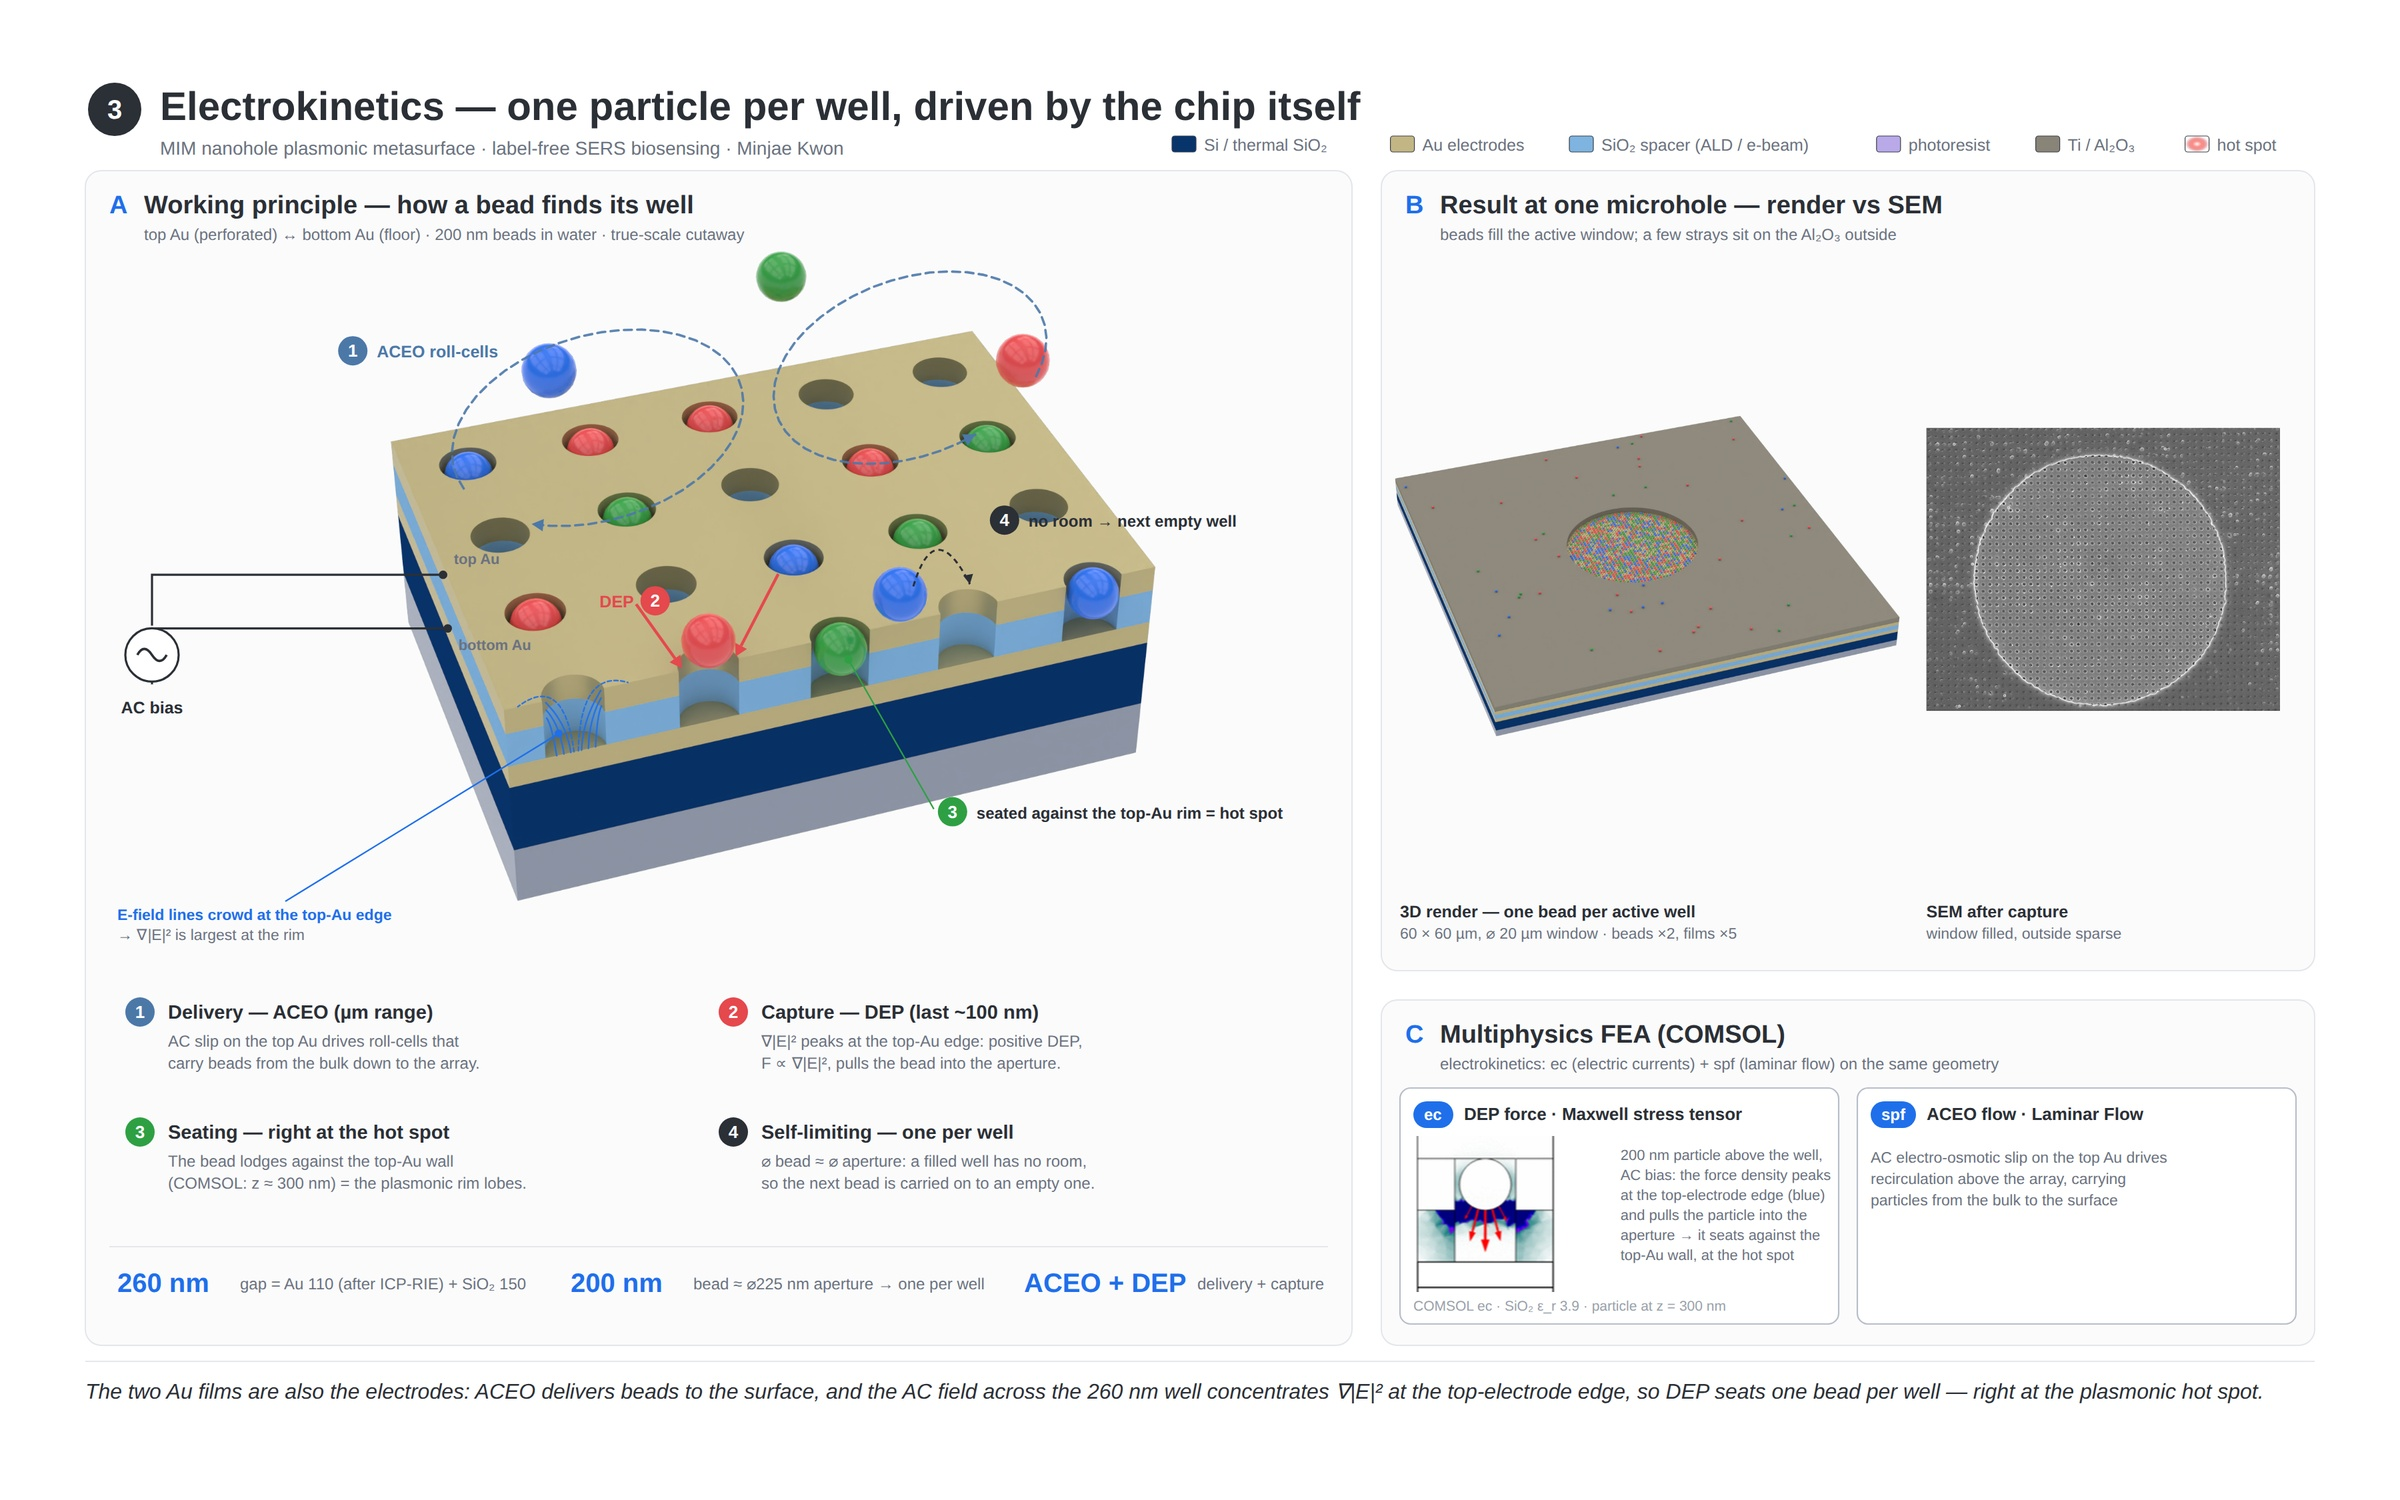
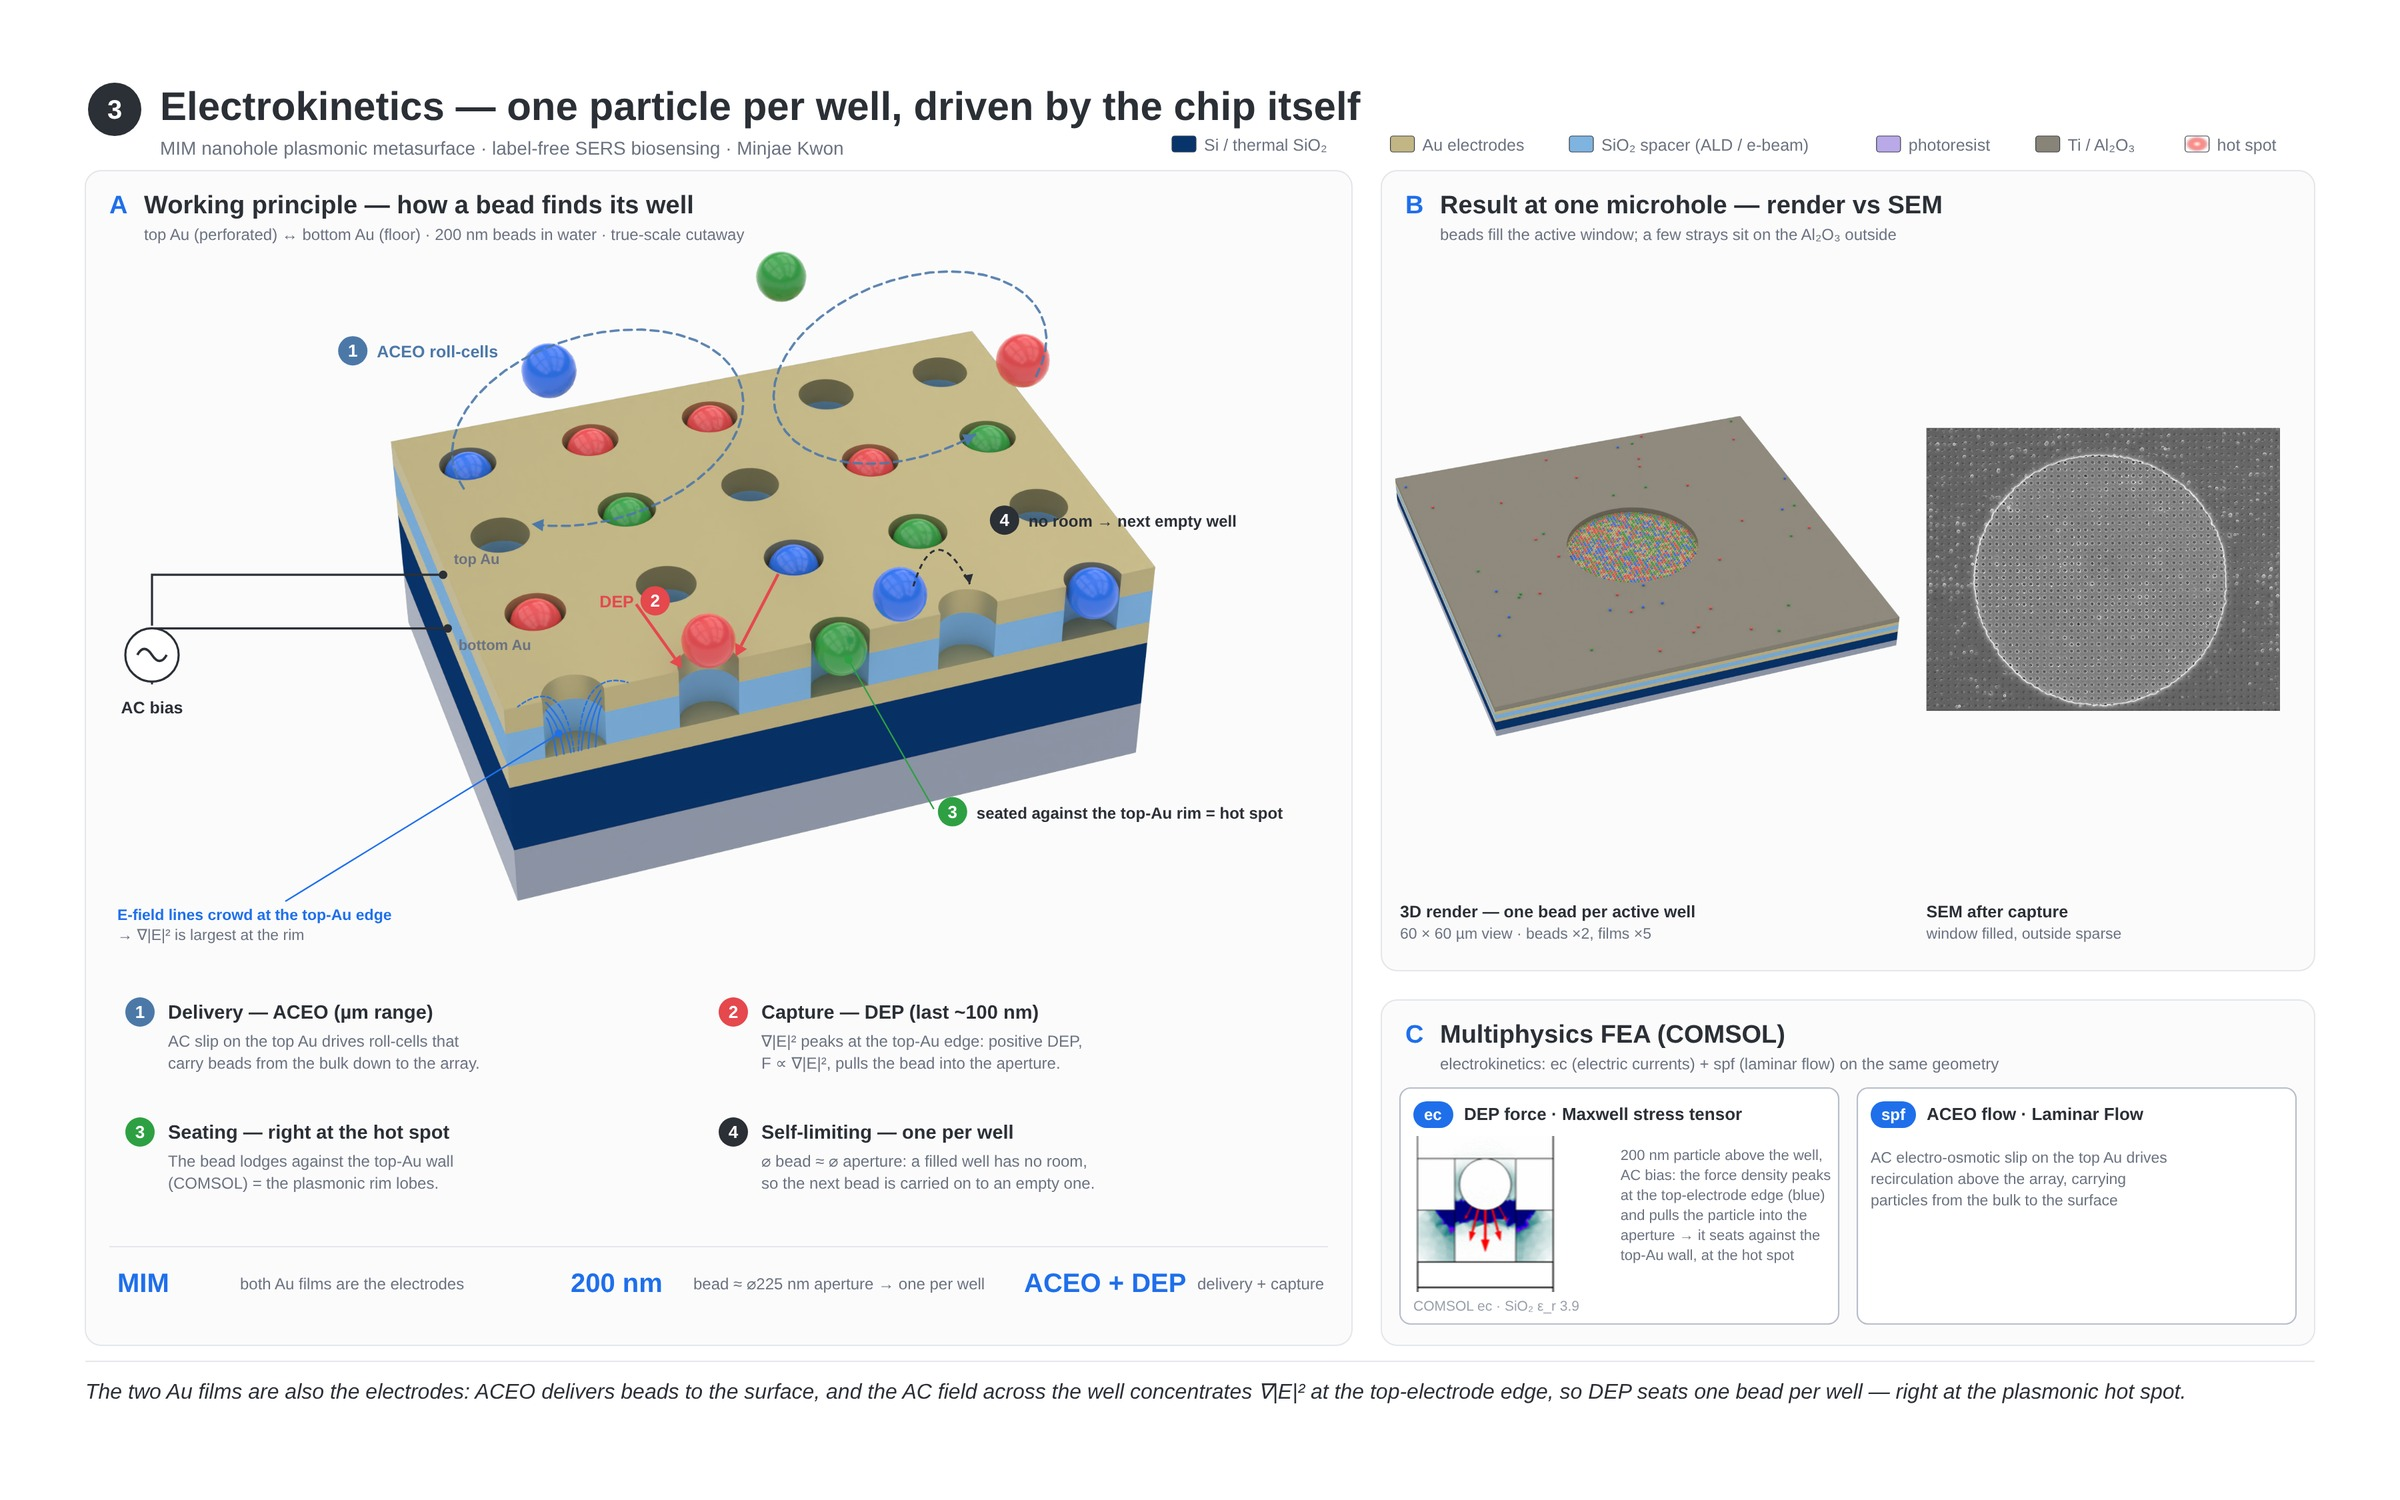
Figures 1-3 and captions: drop layer thicknesses and process conditions
While the first-author paper is unpublished, the public site shows no
electrode, spacer or passivation thicknesses and no recipe numbers
(exposure time, field counts, window size, gap). The design lattice
(225 nm / 500 nm), laser wavelength and particle size stay.

Claude-Session: https://claude.ai/code/session_01CwkbSz9kciPx6Bdd89Dz4P

diff --git a/index.html b/index.html
@@ -553,7 +553,7 @@ var SKILLS_GROUPS = [
               { src: 'Ryu-SU8-fluidic-channel2.jpeg', cap: 'Cross-sectional SEM of the SU-8 (TF 6000) fluidic channel edge profile at a second location.' }
           ]},
           { name: 'Laser Interference Lithography (LIL)', desc: 'Large-area, periodic nanopatterning via laser interference for metasurface fabrication. Equipment manager — responsible for maintenance and part replacement, user training and approval, process setup and records, and vendor coordination. Used to pattern the periodic nanopost template for my MIM plasmonic nanohole sensor.', imgs: [
-              { src: 'fig_lil_process.jpg', cap: "How LIL writes the nanopost array. (a) Lloyd's-mirror interferometer: the expanded 325 nm HeCd beam is folded by the mirror so two beams meet on the resist at ±θ (θ = 18.97° for a 500 nm period). (b) Exposure 1 writes bright sheets every 500 nm through the 0.5 µm positive resist. (c) Exposure 2, rotated 90° at the same dose, leaves ~225 nm posts only where both exposures were dark. (d) A 3 s aligner flood through a 50 µm chrome checker mask keeps the posts in 16 × 16 fields (100 µm pitch). Panels b–c to scale; a is schematic and d has exaggerated height." },
+              { src: 'fig_lil_process.jpg', cap: "How LIL writes the nanopost array. (a) Lloyd's-mirror interferometer: the expanded 325 nm HeCd beam is folded by the mirror so two beams meet on the resist at ±θ (θ = 18.97° for a 500 nm period). (b) Exposure 1 writes bright sheets every 500 nm through the positive resist. (c) Exposure 2, rotated 90° at the same dose, leaves ~225 nm posts only where both exposures were dark. (d) An aligner flood through a chrome checker mask keeps the posts only inside the fields. Panels b–c to scale; a is schematic and d has exaggerated height." },
               { src: 'Ryu-LIL.jpeg', cap: "Home-built Lloyd's-mirror LIL setup: 325 nm He-Cd laser, beam expander and pinhole spatial filter, and mirror for interference exposure." },
               { src: 'LIL_example_001.jpeg', cap: 'Periodic post-shaped large-surface nanopattern produced by LIL, Period of 840nm.' },
               { src: 'LIL_example_002.jpeg', cap: 'Periodic post-shaped large-surface nanopattern produced by LIL, Period of 500nm.' },
@@ -786,8 +786,8 @@ var RESEARCH = [
       '<strong>Collaborative Projects</strong><ul class="sub-bullets"><li><strong>PRET (Plasmon Resonance Energy Transfer) metasurface:</strong> Collaborating with Prof. Junsuk Rho (POSTECH), whose group fabricates the base metasurface; performing the deposition (e.g., passivation) of the electrokinetic capture structures designed in our lab to complement it, enabling active electrokinetic concentration of target analytes in aqueous solution.</li><li><strong>Hydrogen-sensing MEMS platform:</strong> Providing deposition and lithography support for fabricating a terahertz-resonant MEMS chip structure whose resonance shifts depending on the presence and concentration of hydrogen gas, enabling label-free hydrogen sensing.</li><li><strong>Electrochemical-sensing nanostructure:</strong> Leading full-chip fabrication for a variant MIM nanohole platform (electrokinetic capture structure removed), tuning period, nanohole size, layer thickness, and constituent materials for electrochemical sensing.</li><li><strong>KU-KIST Joint Project:</strong> Collaborating Researcher at the Nanophotonics Research Center, KIST (Korea Institute of Science and Technology), developing label-free plasmonic sensing platforms for GPCR (G protein-coupled receptor) conformational dynamics in a drug-discovery initiative.</li></ul>'
     ],
     imgs: [
-      { src: 'mim_nanohole_fab_setup_poster.jpg', video: { mp4: 'mim_nanohole_fab_setup_1440.mp4' }, cap: 'Video — how the chip is made and used (2 min). Fabrication, layer by layer in one fixed view: Cr/Au bottom electrodes, SiO₂ spacer, laser interference lithography (⌀225 nm posts, 500 nm pitch) and a second exposure, Ti/Au top electrodes with lift-off, a Ti/Al₂O₃ cap with ⌀20 µm windows, ICP-RIE into Au-floored nanowells, and a quartz cover on 3 µm silica beads. Then the measurement: capillary action fills the 3 µm gap with the sample, AC on one electrode pair pulls one 200 nm particle into each nanohole (live fluorescence, 50× objective), the particles stay when the field is off, and a Raman laser reads one nanohole at a time.' },
-      { src: 'mim_nanohole_loop_v5_poster.jpg', video: { mp4: 'mim_nanohole_loop_v5_1440.mp4' }, cap: 'Video — animated overview of the MIM nanohole platform: four identical sensing units on one die, the Au/SiO₂/Au stack of the sensing area assembling layer by layer from an exploded view, 100 microholes (⌀20 µm) per unit, DEP/ACEO trapping one 200 nm PS particle per nanohole (with SEM and CNN readout of the real chip), and the 785 nm Raman probe on a single well, where the rim hot spots return the particle’s Raman signature (1001 cm⁻¹; spectrum illustrative). It closes on the next step, multiplexed identification of PS, PMMA and PET particles (concept; illustrative spectra from literature bands).' },
+      { src: 'mim_nanohole_fab_setup_poster.jpg', video: { mp4: 'mim_nanohole_fab_setup_1440.mp4' }, cap: 'Video — how the chip is made and used (2 min). Fabrication, layer by layer in one fixed view: Cr/Au bottom electrodes, SiO₂ spacer, laser interference lithography (⌀225 nm posts, 500 nm pitch) and a second exposure, Ti/Au top electrodes with lift-off, a Ti/Al₂O₃ cap with micro-windows, ICP-RIE into Au-floored nanowells, and a quartz cover on silica-bead spacers. Then the measurement: capillary action fills the gap with the sample, AC on one electrode pair pulls one 200 nm particle into each nanohole (live fluorescence, 50× objective), the particles stay when the field is off, and a Raman laser reads one nanohole at a time.' },
+      { src: 'mim_nanohole_loop_v5_poster.jpg', video: { mp4: 'mim_nanohole_loop_v5_1440.mp4' }, cap: 'Video — animated overview of the MIM nanohole platform: four identical sensing units on one die, the Au/SiO₂/Au stack of the sensing area assembling layer by layer from an exploded view, an array of microholes per unit, DEP/ACEO trapping one 200 nm PS particle per nanohole (with SEM and CNN readout of the real chip), and the 785 nm Raman probe on a single well, where the rim hot spots return the particle’s Raman signature (1001 cm⁻¹; spectrum illustrative). It closes on the next step, multiplexed identification of PS, PMMA and PET particles (concept; illustrative spectra from literature bands).' },
       { src: 'fig1_nanofab_v5.jpg', cap: 'Fig. 1 — Eight-step nanofabrication of the DEP-SERS nanowell chip, rendered from the mask CAD: Cr/Au bottom electrodes, ALD/e-beam/ALD SiO2 insulation, laser interference lithography (225 nm posts, 500 nm pitch), secondary exposure, Ti/Au e-beam deposition and lift-off, photoresist micropillars, and Ti/Al2O3 capping with ICP-RIE of the SiO2 to open the nanowells.' },
       { src: 'fig2_plasmonics_v6.jpg', cap: 'Fig. 2 — Plasmonic MIM nanohole metasurface: the 500 nm lattice phase-matches 785 nm light to the Au/SiO2 surface plasmon, and each aperture rim concentrates it into two lobes along E (COMSOL: |E/E₀|⁴ ≈ 1.8×10⁵); a period sweep shows how the lattice sets the hot spot.' },
       { src: 'fig3_electrokinetics_v6.jpg', cap: 'Fig. 3 — Electrokinetic capture: ACEO delivers 200 nm beads to the surface and DEP seats one bead per well at the top-Au rim — the plasmonic hot spot — shown against SEM of a filled microhole and COMSOL (ec + spf) modeling.' },
